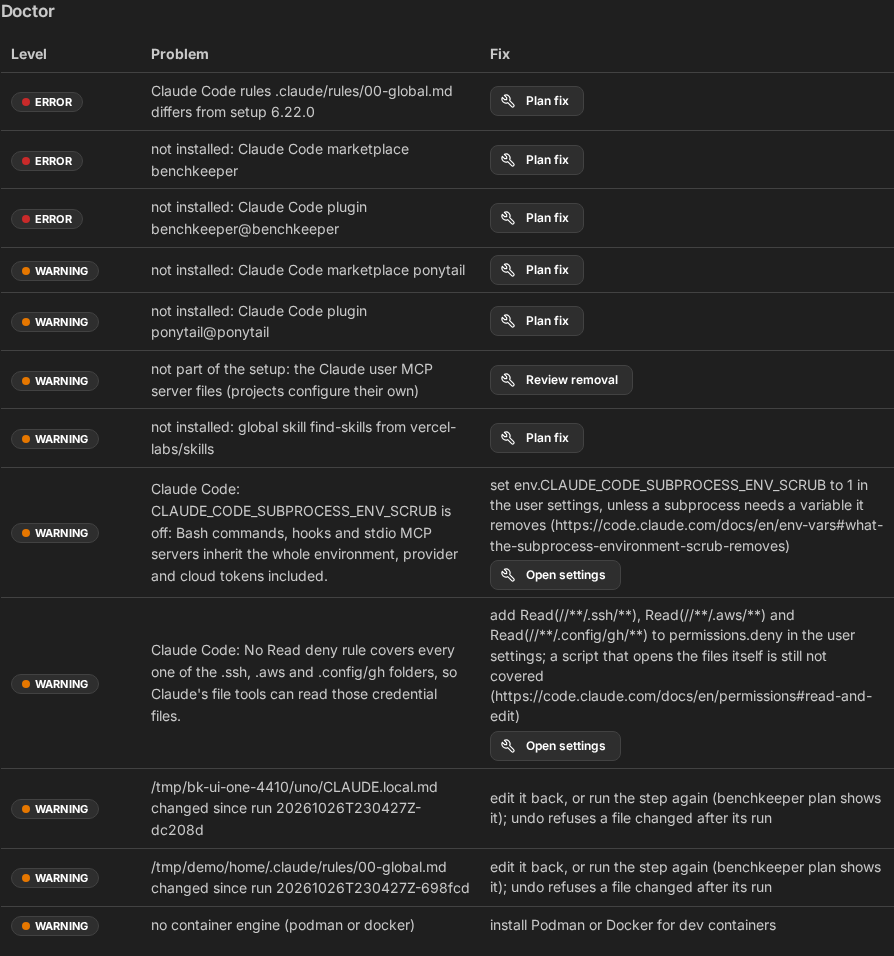
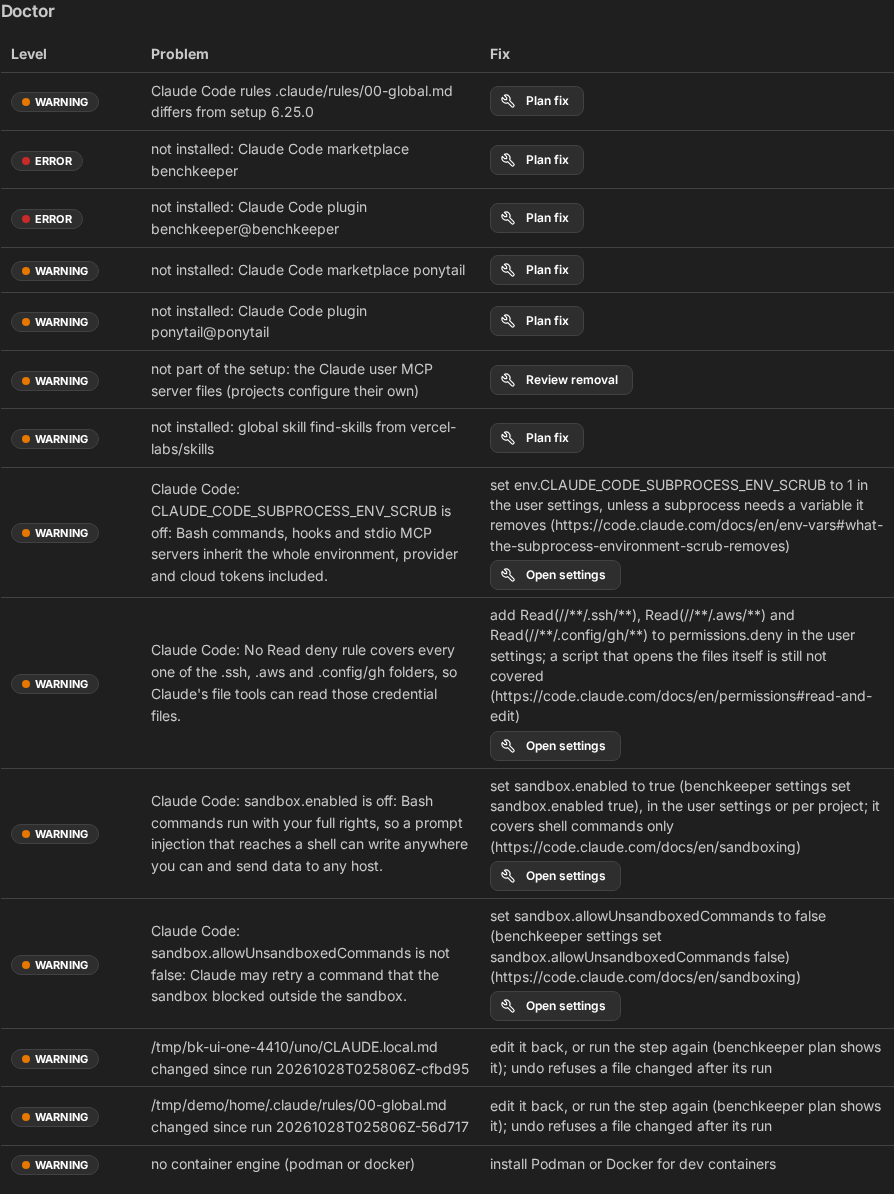
docs(app): regenerate the doctor picture and fix a citation range
Refs #312

Assisted-by: generative AI

diff --git a/docs/security.md b/docs/security.md
@@ -259,7 +259,7 @@ Orca workers are Claude Code or Codex sessions in a git worktree (`orchestrating
 |---|---|---|---|
 | Permission mode | Manual asks first. Auto mode lets a separate classifier decide and a server-side probe scan tool results (which sessions get the probe: unverified); the page says it "does not guarantee safety" ([modes][cc-modes], [security][cc-security]). A terminal session starts in auto since v2.1.283 (`catalog.json:12`) | Leaves it unset (`catalog.json:12`) | none: model-based, covered by the canary tests (#292) |
 | Allow, ask and deny rules | Order deny, ask, allow; a deny in any scope wins. A `Bash` rule is not a boundary around the program, and a `Read` deny does not cover a script that opens files itself ([permissions][cc-permissions]) | Writes none. `doctor` reports allow rules that reach far (`allow.mjs:22-34`) and warns while no `Read` deny rule covers each of the `.ssh`, `.aws` and `.config/gh` folders (catalog entry `catalog.json:45`, rule `couplings.json:52`; [#313](https://github.com/ESchuderer/BenchKeeper/issues/313)) | `lint.test.mjs` "allow rules: user, project and local files and Codex rules ..."; `settings.test.mjs` "Doctor: the environment scrub and the credential Read deny rules" |
-| Sandbox | Off by default; covers shell commands only (not the file tools, MCP servers or hooks); writes confined to the working directory; network through a proxy with an empty allowlist; reads of the machine, credential files included, stay open; without bubblewrap or socat commands run unsandboxed unless `failIfUnavailable` is true; `excludedCommands` run with full access; a failed command may be retried outside it unless `allowUnsandboxedCommands` is false ([sandboxing][cc-sandbox]) | A per-project option, off by default (`steps/project.mjs:134`); on it writes `sandbox.enabled` and `excludedCommands` for `devcontainer exec *` and `podman *` (`steps/project.mjs:39`, `steps/project.mjs:347-348`). It sets no `failIfUnavailable`, `allowUnsandboxedCommands`, network allowlist or read deny. The catalog lists `failIfUnavailable` and `allowUnsandboxedCommands` with a suggested value (`catalog.json:39-42`) and `doctor` warns on macOS, Linux and WSL2 while the sandbox is off, fails open or allows the unsandboxed retry, names a missing `bubblewrap` or `socat` on Linux and WSL2, reports native Windows as unsupported without a warning, and shows an empty domain allowlist as advice (`couplings.json:56-83`; [#312](https://github.com/ESchuderer/BenchKeeper/issues/312)) | `project.test.mjs` "... the sandbox option excludes devcontainer and podman"; the effect of the sandbox on a canary: #292 |
+| Sandbox | Off by default; covers shell commands only (not the file tools, MCP servers or hooks); writes confined to the working directory; network through a proxy with an empty allowlist; reads of the machine, credential files included, stay open; without bubblewrap or socat commands run unsandboxed unless `failIfUnavailable` is true; `excludedCommands` run with full access; a failed command may be retried outside it unless `allowUnsandboxedCommands` is false ([sandboxing][cc-sandbox]) | A per-project option, off by default (`steps/project.mjs:134`); on it writes `sandbox.enabled` and `excludedCommands` for `devcontainer exec *` and `podman *` (`steps/project.mjs:39`, `steps/project.mjs:347-348`). It sets no `failIfUnavailable`, `allowUnsandboxedCommands`, network allowlist or read deny. The catalog lists `failIfUnavailable` and `allowUnsandboxedCommands` with a suggested value (`catalog.json:39-42`) and `doctor` warns on macOS, Linux and WSL2 while the sandbox is off, fails open or allows the unsandboxed retry, names a missing `bubblewrap` or `socat` on Linux and WSL2, reports native Windows as unsupported without a warning, and shows an empty domain allowlist as advice (`couplings.json:56-82`; [#312](https://github.com/ESchuderer/BenchKeeper/issues/312)) | `project.test.mjs` "... the sandbox option excludes devcontainer and podman"; the effect of the sandbox on a canary: #292 |
 | WebFetch and web search | WebFetch runs a separate model call over the page and Claude receives its answer, not the page. Manual mode asks except for allowed domains and documentation domains; auto mode skips the prompt unless an ask rule matches ([tools][cc-tools], [permissions][cc-permissions]) | Writes no WebFetch or web search rule; `doctor` reports a bare `WebFetch` allow rule (`allow.mjs:14`, `allow.mjs:26`) | none |
 | Hooks on tool calls | A `PreToolUse` hook can block or rewrite a call (exit code 2 or `permissionDecision`); a hook that times out does not block unless `onFailure` says so ([hooks][cc-hooks]). Hooks of project settings run in `claude -p` without the trust dialog ([permissions][cc-permissions]) | Installs no gating hook (the plugin's one hook module draws the tier band, `plugins/benchkeeper/hooks/tier/register.tsx`); offers to remove hooks of user settings that are not Orca's, unselected by default (`steps/global.mjs:293-300`) | none |
 | MCP scoping | A project `.mcp.json` server needs approval in an interactive session and loads without asking in `claude -p`; a committed `enableAllProjectMcpServers` is ignored in an untrusted folder; `--strict-mcp-config` takes only the servers passed on the command line ([MCP][cc-mcp], [CLI][cc-cli]) | Advice and eval pass `--strict-mcp-config` (`advise.mjs:54`, `eval.mjs:36`); global setup offers to remove user-scope servers (`steps/global.mjs:286-287`) | `secrets.test.mjs` "an eval session leaves no transcript, loads no MCP server ..."; `advise.test.mjs` "Codex answers through its output file ..." for the Codex side |
@@ -321,7 +321,7 @@ Ranks 1, 2, 5 and 6 are built ([#311](https://github.com/ESchuderer/BenchKeeper/
 | Rank | Control | Stops | Cost | Could BenchKeeper apply and verify it | Check sketch |
 |---|---|---|---|---|---|
 | 1 | Implemented in [#311](https://github.com/ESchuderer/BenchKeeper/issues/311): the worker spec names the trusted authors (the policy's `trustedAuthors`, the owner and users with write access by `authorAssociation`) and treats other text as data; the coordinator starts only issues written by a trusted author | A commenter without write access steering a worker that can push | A worker misses a useful outside comment; a review bot's comments are followed only when the policy lists it | Done in the skill text, `spec-template.md` and `policy.example.json`; the lint check is `HANDS_TEXT` and `AUTHOR_FILTER` in `.github/scripts/skill-lint.mjs` | `skill-lint.test.mjs` "issue text handed to a worker needs the author filter" (a failing and a passing fixture); the spec still reaches the worker as text, so this is a lower hit rate, not a boundary |
-| 2 | Implemented in [#312](https://github.com/ESchuderer/BenchKeeper/issues/312): sandbox on with `failIfUnavailable` and `allowUnsandboxedCommands` false (Claude Code); `workspace-write` (Codex). The network allowlist is the owner's choice and is never written | Data sent to hosts off the allowlist; writes outside the project (reads of credential files stay open to the sandbox; rank 6 covers the file tools) | Friction; tools that need other hosts; Linux needs bubblewrap and socat; the sandbox covers shell commands only | Done as settings and checks: catalog entries with a source and a reason (`catalog.json:37-42`, `catalog.json:71`), `doctor` warnings (`couplings.json:56-83`, `couplings.json:106`); setup writes none of them, `benchkeeper settings set sandbox.failIfUnavailable true` does | `settings.test.mjs` "Doctor: the sandbox settings, per platform, for Claude Code and Codex" (each state on Linux and macOS, a missing program, native Windows without a warning, Codex `danger-full-access`) |
+| 2 | Implemented in [#312](https://github.com/ESchuderer/BenchKeeper/issues/312): sandbox on with `failIfUnavailable` and `allowUnsandboxedCommands` false (Claude Code); `workspace-write` (Codex). The network allowlist is the owner's choice and is never written | Data sent to hosts off the allowlist; writes outside the project (reads of credential files stay open to the sandbox; rank 6 covers the file tools) | Friction; tools that need other hosts; Linux needs bubblewrap and socat; the sandbox covers shell commands only | Done as settings and checks: catalog entries with a source and a reason (`catalog.json:37-42`, `catalog.json:71`), `doctor` warnings (`couplings.json:56-82`, `couplings.json:106`); setup writes none of them, `benchkeeper settings set sandbox.failIfUnavailable true` does | `settings.test.mjs` "Doctor: the sandbox settings, per platform, for Claude Code and Codex" (each state on Linux and macOS, a missing program, native Windows without a warning, Codex `danger-full-access`) |
 | 3 | The research session pattern above | Fetched text reaching a session that can act | One more session per research task | Could in part: the command lines, not the user's habit | An argv test like `advise.test.mjs` for the research command |
 | 4 | Keep Claude transcripts 30 days or more (the catalog's own advice) | Loss of the record needed after an incident | Disk | Could | `global.test.mjs`: `cleanupPeriodDays` at least 30 |
 | 5 | Implemented in [#313](https://github.com/ESchuderer/BenchKeeper/issues/313): `CLAUDE_CODE_SUBPROCESS_ENV_SCRUB=1` in the user settings, as a catalog entry with a source and a reason (`catalog.json:43`) and a `doctor` warning while it is off (`couplings.json:48`) | Bash commands, hooks and stdio MCP servers reading provider and cloud tokens in the environment | Tools that need a scrubbed variable; GitHub tokens stay | Done as a setting and a check; setup does not write it, `benchkeeper settings set env.CLAUDE_CODE_SUBPROCESS_ENV_SCRUB 1` does | `settings.test.mjs` "Doctor: the environment scrub and the credential Read deny rules" (off, `0`, on in the file, on in the process environment, unreadable file) |
